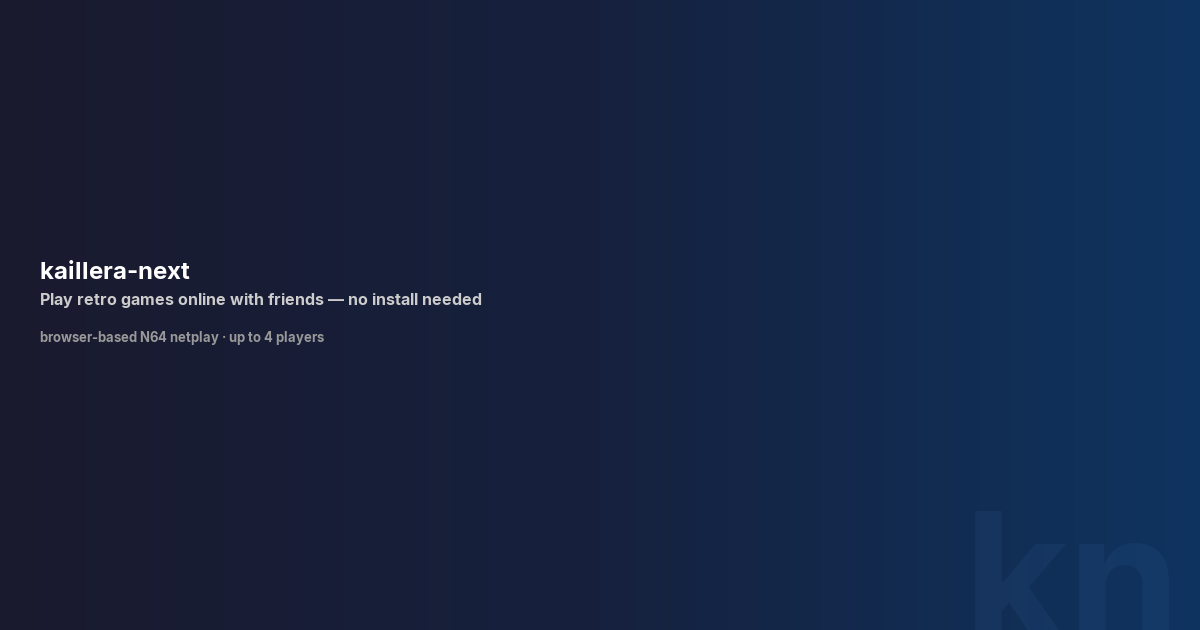
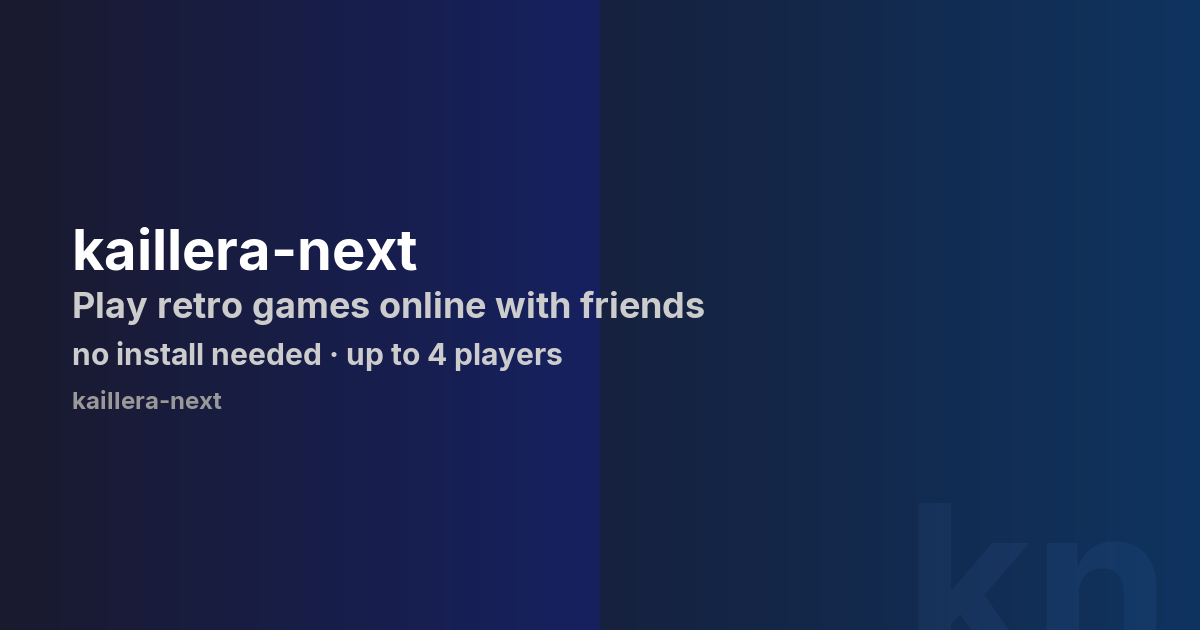
feat: scale up OG card text, arcade-style copy, spectate player matchups
- Font sizes 2-3x larger for OG card readability
- Play invite: "Ready to fight?" + "{host} is waiting"
- Watch invite: "Come watch!" + player vs player matchup
- kn watermark scaled back to approved size

Changed region(s): [[0.0308, 0.0, 0.5858, 1.0]]

diff --git a/server/src/api/og.py b/server/src/api/og.py
@@ -28,6 +28,7 @@ _FONT_PATH = _OG_DIR / "Inter-Bold.ttf"
 # ── Constants ─────────────────────────────────────────────────────────────────
 
 WIDTH, HEIGHT = 1200, 630
+_LEFT_PAD = 72
 
 # Colors
 _WHITE = (255, 255, 255)
@@ -61,7 +62,7 @@ def _draw_dark_gradient(img: Image.Image) -> None:
             s = t / 0.5
             r = int(_DARK_BG[0] + (_MID_BG[0] - _DARK_BG[0]) * s)
             g = int(_DARK_BG[1] + (_MID_BG[1] - _DARK_BG[1]) * s)
-            b = int(_DARK_BG[2] + (_MID_BG[2] - _DARK_BG[2]) * s)
+            b = int(_DARK_BG[2] + (_DEEP_BG[2] - _DARK_BG[2]) * s)
         else:
             s = (t - 0.5) / 0.5
             r = int(_MID_BG[0] + (_DEEP_BG[0] - _MID_BG[0]) * s)
@@ -70,17 +71,15 @@ def _draw_dark_gradient(img: Image.Image) -> None:
         draw.line([(x, 0), (x, HEIGHT)], fill=(r, g, b))
 
 
-def _draw_gradient_overlay(img: Image.Image) -> None:
+def _draw_gradient_overlay(img: Image.Image) -> Image.Image:
     """Draw semi-transparent dark gradient overlay for text legibility over game images."""
     overlay = Image.new("RGBA", (WIDTH, HEIGHT), (0, 0, 0, 0))
     draw = ImageDraw.Draw(overlay)
     for x in range(WIDTH):
         t = x / WIDTH
-        # Left side darker (alpha ~217), right side lighter (alpha ~77)
         alpha = int(217 - 140 * t)
         draw.line([(x, 0), (x, HEIGHT)], fill=(10, 10, 30, alpha))
-    img = Image.alpha_composite(img, overlay)
-    return img
+    return Image.alpha_composite(img, overlay)
 
 
 def _draw_text_with_shadow(
@@ -94,7 +93,7 @@ def _draw_text_with_shadow(
     """Draw text, optionally with a heavy drop shadow."""
     x, y = pos
     if shadow:
-        for dx, dy in [(0, 2), (0, 0)]:
+        for dx, dy in [(0, 4), (0, 0)]:
             draw.text((x + dx, y + dy), text, font=font, fill=(0, 0, 0))
     draw.text(pos, text, font=font, fill=fill)
 
@@ -104,13 +103,13 @@ def _draw_kn_watermark(img: Image.Image, large: bool = False) -> Image.Image:
     watermark = Image.new("RGBA", (WIDTH, HEIGHT), (0, 0, 0, 0))
     draw = ImageDraw.Draw(watermark)
     if large:
-        font = _load_font(180)
+        font = _load_font(220)
         opacity = int(255 * 0.06)
-        x, y = WIDTH - 20, HEIGHT - 30
+        x, y = WIDTH - 30, HEIGHT - 20
     else:
-        font = _load_font(140)
+        font = _load_font(160)
         opacity = int(255 * 0.30)
-        x, y = WIDTH + 10, HEIGHT - 15
+        x, y = WIDTH - 20, HEIGHT - 10
     bbox = draw.textbbox((0, 0), "kn", font=font)
     tw = bbox[2] - bbox[0]
     th = bbox[3] - bbox[1]
@@ -130,21 +129,30 @@ def _draw_badge(
     bbox = draw.textbbox((0, 0), text, font=font)
     tw = bbox[2] - bbox[0]
     th = bbox[3] - bbox[1]
-    pad_x, pad_y = 10, 4
-    x = 40
+    pad_x, pad_y = 16, 8
     draw.rounded_rectangle(
-        [x, y, x + tw + pad_x * 2, y + th + pad_y * 2],
-        radius=4,
+        [_LEFT_PAD, y, _LEFT_PAD + tw + pad_x * 2, y + th + pad_y * 2],
+        radius=6,
         fill=bg,
     )
-    draw.text((x + pad_x, y + pad_y), text, font=font, fill=color)
-    return th + pad_y * 2 + 8
+    draw.text((_LEFT_PAD + pad_x, y + pad_y), text, font=font, fill=color)
+    return th + pad_y * 2 + 16
+
+
+def _format_players(player_names: list[str], host_name: str) -> str:
+    """Format player names for spectate card subtitle."""
+    if len(player_names) >= 2:
+        if len(player_names) == 2:
+            return f"{player_names[0]} vs {player_names[1]}"
+        return f"{player_names[0]}, {player_names[1]} & {len(player_names) - 2} more"
+    return f"{host_name} is playing"
 
 
 def generate_og_image(
     room_name: str | None,
     game_id: str | None,
     spectate: bool,
+    player_names: list[str] | None = None,
 ) -> bytes:
     """Generate a 1200x630 OG card image.
 
@@ -152,6 +160,7 @@ def generate_og_image(
         room_name: Room owner's display name (None for homepage).
         game_id: Game identifier for background lookup (None for homepage).
         spectate: True for "WATCH GAME" badge, False for "JOIN GAME".
+        player_names: List of player names in room (for spectate cards).
 
     Returns:
         PNG image as bytes.
@@ -184,44 +193,63 @@ def generate_og_image(
 
     draw = ImageDraw.Draw(img, "RGBA")
 
-    # Fonts
-    font_badge = _load_font(12)
-    font_title = _load_font(24)
-    font_game = _load_font(16)
-    font_tagline = _load_font(13)
+    # Fonts — scaled up for OG card readability
+    font_badge = _load_font(24)
+    font_headline = _load_font(56)
+    font_subtitle = _load_font(36)
+    font_game = _load_font(30)
+    font_tagline = _load_font(24)
 
-    y = HEIGHT // 2 - 60
+    y = HEIGHT // 2 - 100
     shadow = has_game_bg
+    is_homepage = room_name is None
 
     # Badge
-    is_homepage = room_name is None
     if not is_homepage:
         badge_text = "WATCH GAME" if spectate else "JOIN GAME"
         badge_color = _ORANGE_ACCENT if spectate else _BLUE_ACCENT
         badge_bg = _ORANGE_BADGE_BG if spectate else _BLUE_BADGE_BG
         y += _draw_badge(draw, y, badge_text, badge_color, badge_bg, font_badge)
 
-    # Room name / title
-    title = "kaillera-next" if is_homepage else room_name
-    _draw_text_with_shadow(draw, (40, y), title, font_title, _WHITE, shadow=shadow)
-    y += 34
+    # Headline
+    if is_homepage:
+        headline = "kaillera-next"
+    elif spectate:
+        headline = "Come watch!"
+    else:
+        headline = "Ready to fight?"
+    _draw_text_with_shadow(draw, (_LEFT_PAD, y), headline, font_headline, _WHITE, shadow=shadow)
+    y += 68
+
+    # Subtitle (host info / player matchup)
+    if is_homepage:
+        subtitle = "Play retro games online with friends"
+        subtitle_color = _LIGHT_GRAY
+    elif spectate and player_names:
+        subtitle = _format_players(player_names, room_name or "")
+        subtitle_color = _BLUE_ACCENT
+    elif spectate:
+        subtitle = f"{room_name} is playing"
+        subtitle_color = _BLUE_ACCENT
+    else:
+        subtitle = f"{room_name} is waiting"
+        subtitle_color = _BLUE_ACCENT
+    _draw_text_with_shadow(draw, (_LEFT_PAD, y), subtitle, font_subtitle, subtitle_color, shadow=shadow)
+    y += 52
 
     # Game name
     if is_homepage:
-        game_text = "Play retro games online with friends \u2014 no install needed"
+        game_text = "no install needed \u00b7 up to 4 players"
     elif game_info:
         game_text = game_info["name"]
     else:
         game_text = game_id or "Unknown Game"
-    _draw_text_with_shadow(draw, (40, y), game_text, font_game, _LIGHT_GRAY, shadow=shadow)
-    y += 40
+    _draw_text_with_shadow(draw, (_LEFT_PAD, y), game_text, font_game, _LIGHT_GRAY, shadow=shadow)
+    y += 50
 
     # Tagline
-    if is_homepage:
-        tagline = "browser-based N64 netplay \u00b7 up to 4 players"
-    else:
-        tagline = "kaillera-next \u00b7 play retro games online with friends"
-    _draw_text_with_shadow(draw, (40, y), tagline, font_tagline, _GRAY, shadow=shadow)
+    tagline = "kaillera-next"
+    _draw_text_with_shadow(draw, (_LEFT_PAD, y), tagline, font_tagline, _GRAY, shadow=shadow)
 
     # Output as PNG
     img = img.convert("RGB")
@@ -246,9 +274,11 @@ def build_og_tags(
     game_info = GAME_INFO.get(game_id) if game_id else None
 
     if room_id and room_name:
-        action = "Watch" if spectate else "Join"
         game_label = game_info["name"] if game_info else (game_id or "")
-        title = f"{action} {room_name}"
+        if spectate:
+            title = f"Come watch! {room_name} is playing"
+        else:
+            title = f"Ready to fight? {room_name} is waiting"
         if game_label:
             title += f" \u00b7 {game_label}"
         description = "kaillera-next \u2014 play retro games online with friends"

diff --git a/tests/test_og_e2e.py b/tests/test_og_e2e.py
@@ -23,7 +23,7 @@ def test_play_invite_og_tags(page, server_url):
     """Play invite link has dynamic OG meta tags."""
     page.goto(f"{server_url}/play.html?room=TESTROOM")
     og_title = page.locator('meta[property="og:title"]')
-    expect(og_title).to_have_attribute("content", re.compile(r"Join"))
+    expect(og_title).to_have_attribute("content", re.compile(r"Ready to fight"))
     og_image = page.locator('meta[property="og:image"]')
     expect(og_image).to_have_attribute("content", re.compile(r"/og-image/TESTROOM\.png"))
     twitter = page.locator('meta[name="twitter:card"]')
@@ -34,7 +34,7 @@ def test_watch_invite_og_tags(page, server_url):
     """Watch invite has WATCH in title and spectate param in image URL."""
     page.goto(f"{server_url}/play.html?room=TESTROOM&spectate=1")
     og_title = page.locator('meta[property="og:title"]')
-    expect(og_title).to_have_attribute("content", re.compile(r"Watch"))
+    expect(og_title).to_have_attribute("content", re.compile(r"Come watch"))
     og_image = page.locator('meta[property="og:image"]')
     expect(og_image).to_have_attribute("content", re.compile(r"spectate=1"))
 

diff --git a/server/src/api/app.py b/server/src/api/app.py
@@ -555,12 +555,17 @@ def create_app(lifespan=None) -> FastAPI:
                 return p.get("playerName", room.room_name)
         return room.room_name
 
+    def _player_names(room) -> list[str]:  # noqa: ANN001
+        """Get list of player display names in the room."""
+        return [p.get("playerName", "?") for p in room.players.values()]
+
     @app.get("/og-image/{room_id}.png")
     def og_image(room_id: str, request: Request) -> Response:
         room = rooms.get(room_id)
         spectate = request.query_params.get("spectate") == "1"
         if room:
-            img = generate_og_image(_owner_name(room), room.game_id, spectate)
+            names = _player_names(room) if spectate else None
+            img = generate_og_image(_owner_name(room), room.game_id, spectate, player_names=names)
         else:
             img = generate_og_image(room_id, None, spectate)
         return Response(

diff --git a/tests/test_og.py b/tests/test_og.py
@@ -34,9 +34,24 @@ def test_generate_og_image_spectate():
     from src.api.og import generate_og_image
 
     img_bytes = generate_og_image(
-        room_name="Agent 21's room",
+        room_name="Agent 21",
         game_id="ssb64",
         spectate=True,
+    )
+    assert isinstance(img_bytes, bytes)
+    img = Image.open(io.BytesIO(img_bytes))
+    assert img.size == (1200, 630)
+
+
+def test_generate_og_image_spectate_with_players():
+    """Generate a watch card showing player matchup."""
+    from src.api.og import generate_og_image
+
+    img_bytes = generate_og_image(
+        room_name="Agent 21",
+        game_id="ssb64",
+        spectate=True,
+        player_names=["Agent 21", "Player2"],
     )
     assert isinstance(img_bytes, bytes)
     img = Image.open(io.BytesIO(img_bytes))
